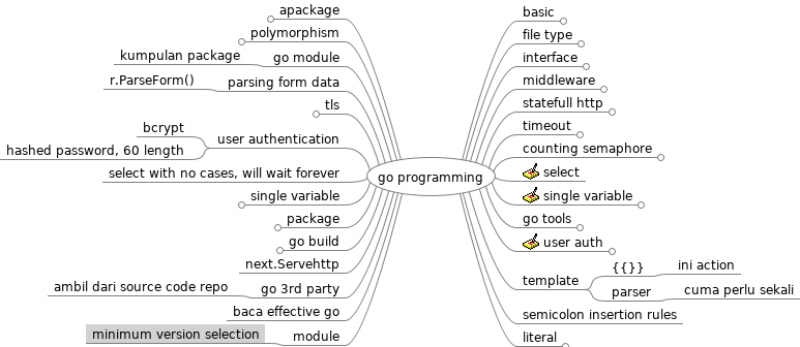
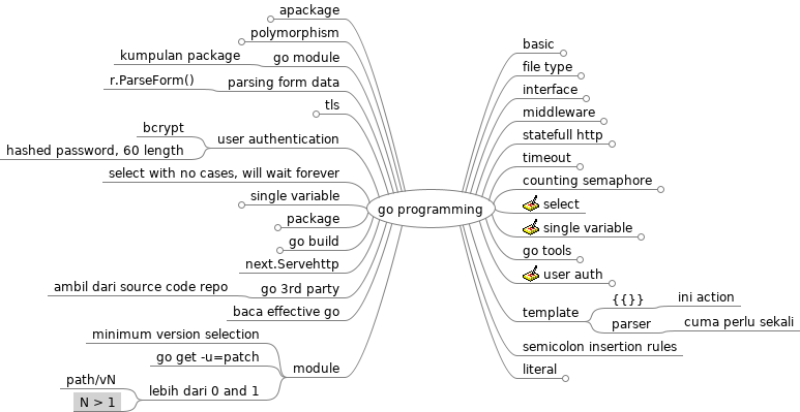
update lecture notes

Changed region(s): [[0.0, 0.0, 1.0, 1.0]]

diff --git a/go programming.mm b/go programming.mm
@@ -203,6 +203,11 @@
 </node>
 <node CREATED="1678718674003" ID="ID_1895312091" MODIFIED="1678718675926" POSITION="left" TEXT="module">
 <node CREATED="1678718676172" ID="ID_911275441" MODIFIED="1678718682045" TEXT="minimum version selection"/>
+<node CREATED="1678718842372" ID="ID_1654465190" MODIFIED="1678718859575" TEXT="go get -u=patch"/>
+<node CREATED="1678718912550" ID="ID_1471649873" MODIFIED="1678718917153" TEXT="lebih dari 0 and 1">
+<node CREATED="1678718917383" ID="ID_15081645" MODIFIED="1678718921238" TEXT="path/vN"/>
+<node CREATED="1678718922323" ID="ID_1469327047" MODIFIED="1678718925050" TEXT="N &gt; 1"/>
+</node>
 </node>
 </node>
 </map>
